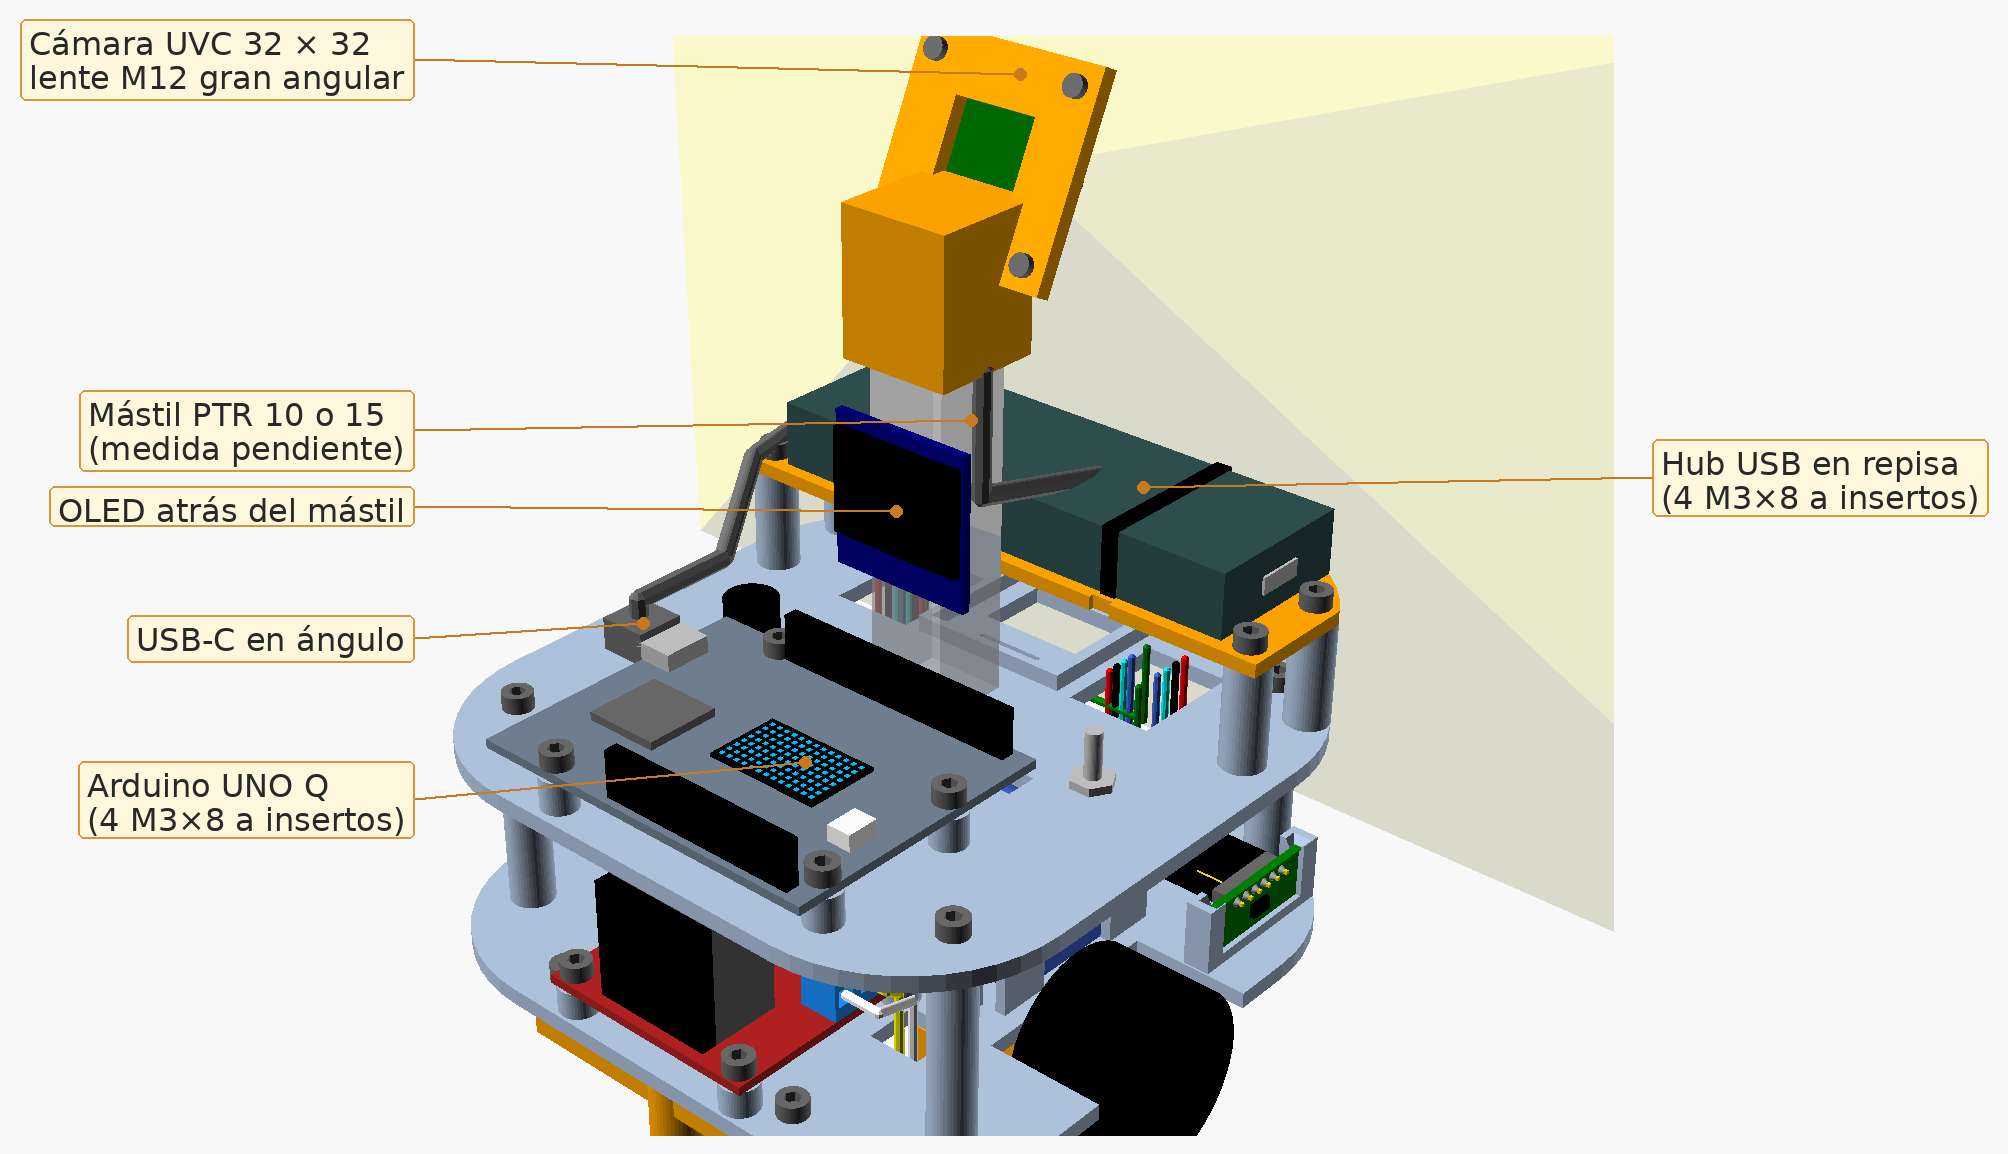
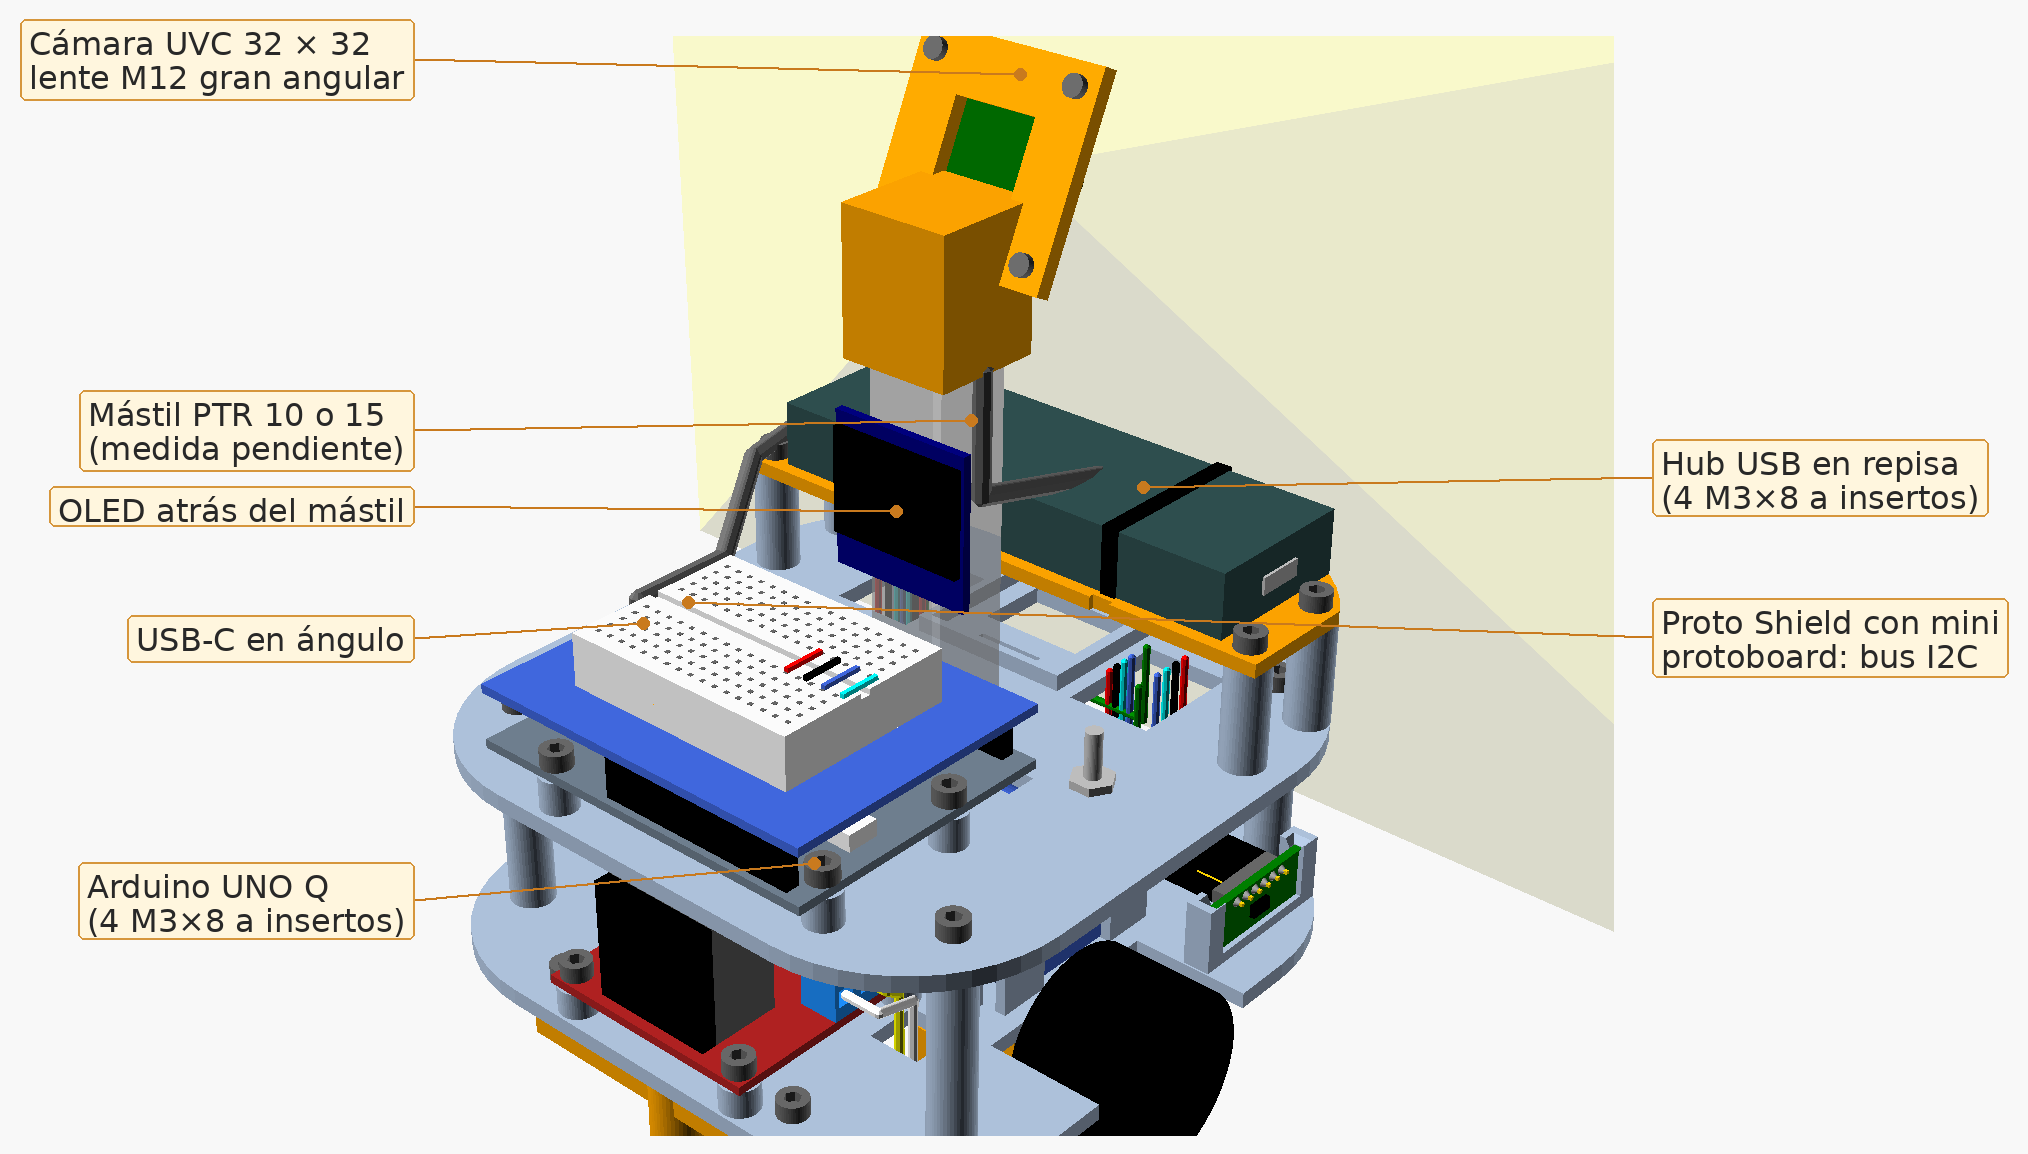
Concepto UNO: Proto Shield con mini protoboard para el bus I2C
Claude-Session: https://claude.ai/code/session_017eD8xWXnvZZ2v6m3n2fvhH

diff --git a/chasis/renders.py b/chasis/renders.py
@@ -149,7 +149,8 @@ VISTAS = {
         ("Patín: 2", (116, -50, 22), (200, 80)),
     ]),
     "unoq_iso": ({"PLACA": "unoq"}, (300, -330, 330, 0, 5, 85), [
-        ("Arduino UNO Q\n(4 M3×8 a insertos)", (10, -31, 72), (-250, 150)),
+        ("Arduino UNO Q\n(4 M3×8 a insertos)", (30, -50, 72), (-250, 150)),
+        ("Proto Shield con mini\nprotoboard: bus I2C", (-15, -31, 91), (230, 140)),
         ("Cámara UVC 32 × 32\nlente M12 gran angular", (0, 30, 165), (-260, -60)),
         ("Mástil PTR 10 o 15\n(medida pendiente)", (7.5, 10.5, 115), (-260, 40)),
         ("Hub USB en repisa\n(4 M3×8 a insertos)", (20, 39.5, 96.5), (240, -40)),
@@ -163,8 +164,8 @@ VISTAS = {
         ("Hub: queda bajo\nel campo de visión", (0, 54, 96), (230, 120)),
     ]),
     "uno_r3": ({"PLACA": "uno_r3"}, (300, -330, 300, 0, 0, 55), [
-        ("UNO R3 en los mismos\n4 postes", (10, -31, 72), (-250, 150)),
-        ("USB-B y jack salen\n6 mm por la izquierda", (-38, -20, 76), (-230, -60)),
+        ("UNO R3 en los mismos\n4 postes", (30, -50, 72), (-250, 150)),
+        ("Proto Shield con mini\nprotoboard: bus I2C", (0, -31, 91), (-250, -60)),
         ("Columnas movidas a\n(±48, −40)", (48, -40, 45), (230, 60)),
     ]),
     "placa_x2d": ({"PIEZA": "placa_vista"}, (128, 127, 720, 128, 128, 0), []),
